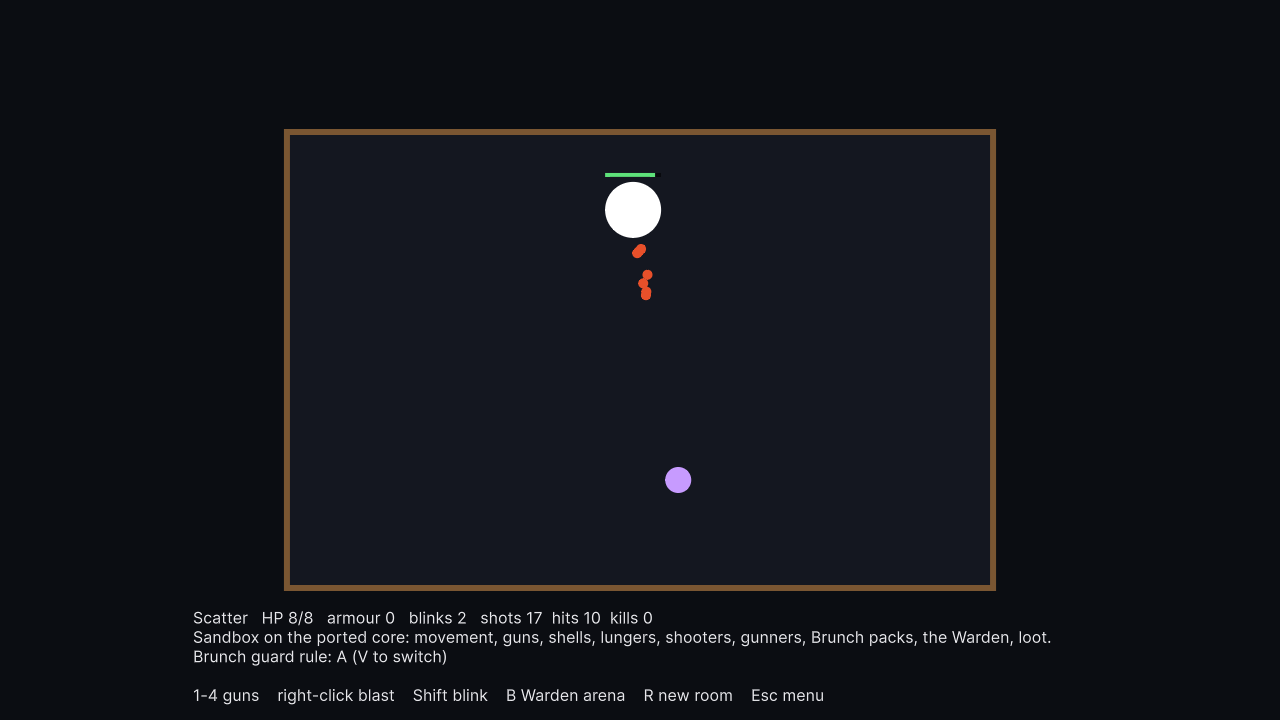
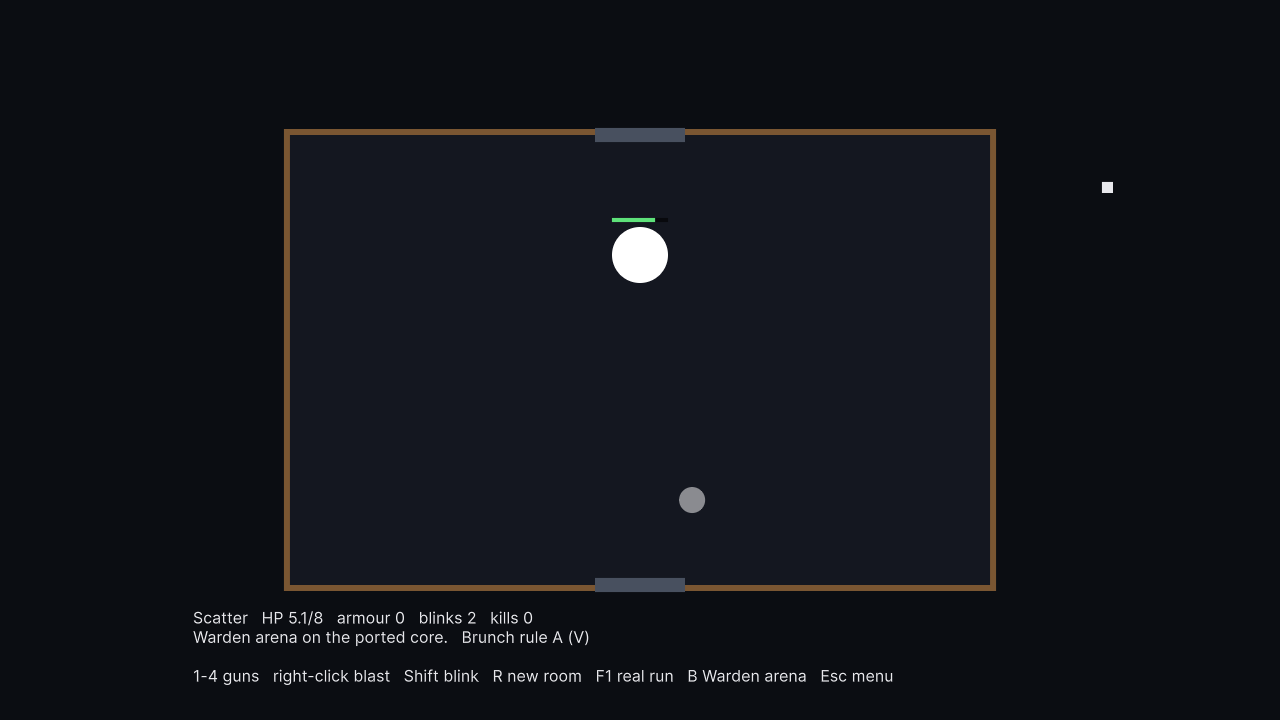
Room loop integration test; screenshots show a real run in Unity
- RoomLoopTests (3 seeds): through Update alone, walk out of the start
  room, arrive in a live room whose doors the fight has shut, clear it,
  and the unsealed doors open; the start room keeps its own (empty) list.
- Screenshot demo in a real run walks out through the first open door and
  fights; the game views wait in real time (frame counts depend on the
  frame rate). The captured frame: room 2 of floor 1, doors shut, a fight.

C# 380/380; gate green; build and runs clean.

diff --git a/docs/report-2026-10-06.html b/docs/report-2026-10-06.html
@@ -22,7 +22,7 @@ Baseline for A/B: git tag <code>pre-features-2026-10-06</code>, checked out at <
 
 <h2>At a glance</h2>
 <table>
-<tr><th>Gate (<code>.\verify.ps1</code>)</th><td><span class="tag ok">green</span> JS 246/246 at 3 viewports, C# 377/377, parity 0 diffs, 145 parity rows, 47/47 constants. About 3 min; it used to time out.</td></tr>
+<tr><th>Gate (<code>.\verify.ps1</code>)</th><td><span class="tag ok">green</span> JS 246/246 at 3 viewports, C# 380/380, parity 0 diffs, 145 parity rows, 47/47 constants. About 3 min; it used to time out.</td></tr>
 <tr><th>Bugs fixed</th><td>11 in the game, 4 in the port, 3 in the gate tooling. Each comes with a test that fails on the old code.</td></tr>
 <tr><th>Playtesting</th><td>A new bot plays 18 full runs in about 50s. It's deterministic and produces an A/B report. <code>node tools/playtest.js</code></td></tr>
 <tr><th>Unity</th><td><span class="tag ok">playable game</span> Start Game plays a real seeded run: rooms, doors, keys, waves of every enemy, the Warden, and the way down. It runs on the ported core, plus a menu, key binds, volume and sound. F1 opens a sandbox and B a Warden arena.</td></tr>
@@ -105,7 +105,8 @@ retreat across a big room from a shooter with a pack. Reports: <code>playtest/re
 <li><b>To play it:</b> build with the command in <code>docs/STATUS.md</code>, or open <code>unity/</code> in the Unity Hub and press Play in <code>Assets/Depths/Scenes/MainMenu</code>.</li>
 </ul>
 <div class="grid2"><img src="report-2026-10-06/unity-audio.png" alt="Audio options"><img src="report-2026-10-06/unity-game.png" alt="Sandbox"></div>
-<div class="grid2"><img src="report-2026-10-06/unity-boss.png" alt="Warden arena"></div>
+<div class="grid2"><img src="report-2026-10-06/unity-boss.png" alt="Warden arena"><img src="report-2026-10-06/unity-sandbox.png" alt="Sandbox"></div>
+<p class="meta">The large image above is a real run: the demo player walked out of the start room into a live room. The minimap shows both rooms, and the fight has shut the doors (grey bars).</p>
 
 <h3>4.3 Sound engine <span class="tag ok">started</span></h3>
 <p><code>SoundEngine.Play("hit", pan)</code> plays any of the game's 12 sounds. They're rebuilt by a small synthesizer from the exact JS definitions, then pooled and routed through the SFX channel. The tests compare each one with the JS game's own render: pitch matches within 20% for 11 of the 12 (the exception is explained in the test). <b>Next step:</b> add a compressor on Master. The JS game has one, and the sounds may feel spikier without it.</p>

diff --git a/csharp/Depths.Tests/RoomLoopTests.cs b/csharp/Depths.Tests/RoomLoopTests.cs
@@ -1,0 +1,49 @@
+using System.Linq;
+using NUnit.Framework;
+
+namespace Depths.Tests
+{
+    /// <summary>
+    /// The room loop as a player meets it, through Update alone: walk out of the start room, arrive in
+    /// a live room whose doors the fight has shut, clear it, and find the doors open again. Not a
+    /// parity table (RoomEntryParityTests pins the numbers); this pins that the pieces are connected.
+    /// </summary>
+    [TestFixture]
+    public sealed class RoomLoopTests
+    {
+        static Input Toward(RunState run, double x, double y) =>
+            new Input(System.Math.Sign(System.Math.Round(x - run.player.x)), System.Math.Sign(System.Math.Round(y - run.player.y)));
+
+        [TestCase(1u)]
+        [TestCase(4242u)]
+        [TestCase(31337u)]
+        public void WalkIntoALiveRoomAndClearIt(uint seed)
+        {
+            var run = new RunState(new Rng(seed));
+            run.Start(seed);
+            var start = run.CurrentRoom!;
+            var d = start.Doors.First(k => run.dungeon.Neighbour(start, k)!.Type == RoomKind.Normal);
+            var (dx, dy) = Rooms.DoorPoint(d);
+            // aim 40px past the door, as a player walks through it
+            double tx = dx + System.Math.Sign(dx - Balance.MidX) * 40, ty = dy + System.Math.Sign(dy - Balance.MidY) * 40;
+            for (int t = 0; t < 2000 && run.CurrentRoom == start; t++) TickOrder.Update(run, Toward(run, tx, ty));
+            var room = run.CurrentRoom!;
+            Assert.That(room, Is.Not.SameAs(start), "the player never left the start room");
+            Assert.That(room.Type, Is.EqualTo(RoomKind.Normal));
+            Assert.That(run.enemies, Is.Not.Empty, "a normal room arrived empty");
+            Assert.That(room.Doors.All(k => !Rooms.DoorPassable(run, room, k)), "a door is open while the fight is on");
+
+            // clear it (by hand: this test is about the doors, not the fight), then the doors open
+            foreach (var e in run.enemies.ToList()) e.hp = 0;
+            run.enemies.Clear();
+            run.readyT = 0;
+            TickOrder.Update(run, Input.None);
+            Assert.That(room.Cleared, "the room did not register as cleared");
+            Assert.That(room.Doors.Where(k => !Rooms.DoorSealed(run, room, k)).All(k => Rooms.DoorPassable(run, room, k)),
+                "a cleared room kept an unsealed door shut");
+
+            // and the start room still holds what it held when the player left (nothing), not this room's
+            Assert.That(start.Enemies, Is.Empty);
+        }
+    }
+}

diff --git a/unity/Assets/Depths/Runtime/GameView.cs b/unity/Assets/Depths/Runtime/GameView.cs
@@ -211,8 +211,21 @@ namespace Depths.Unity
             var p = _run.player;
             var t = _run.enemies.OrderBy(e => (e.x - p.x) * (e.x - p.x) + (e.y - p.y) * (e.y - p.y)).FirstOrDefault();
             if (t != null) aim = new Vector2((float)t.x, (float)t.y);
-            mv = RealRun ? new Vector2(0, 1) : new Vector2((_demoT / 40) % 2 == 0 ? 1 : -1, 0);
-            fire = true;
+            mv = new Vector2((_demoT / 40) % 2 == 0 ? 1 : -1, 0);
+            var room = _run.CurrentRoom;
+            if (RealRun && t == null && room != null)
+            {
+                // a quiet room: walk out through the first open door (screen y is up for the move action)
+                foreach (var d in room.Doors)
+                {
+                    if (!Rooms.DoorPassable(_run, room, d)) continue;
+                    var (dx, dy) = Rooms.DoorPoint(d);
+                    double tx = dx + Math.Sign(dx - Balance.MidX) * 40, ty = dy + Math.Sign(dy - Balance.MidY) * 40;
+                    mv = new Vector2(Math.Sign(Math.Round(tx - p.x)), -Math.Sign(Math.Round(ty - p.y)));
+                    break;
+                }
+            }
+            fire = t != null;
             if (_demoT == 30) p.weaponIdx = 1;
         }
     }

diff --git a/unity/Assets/Depths/Runtime/ScreenshotMode.cs b/unity/Assets/Depths/Runtime/ScreenshotMode.cs
@@ -41,7 +41,11 @@ namespace Depths.Unity
                 var m = FindAnyObjectByType<MainMenuController>();
                 if (m != null) m.ShowView(_view);
             }
-            for (int i = 0; i < (_view == "boss" ? 420 : _view == "game" || _view == "sandbox" ? 150 : 20); i++) yield return null;   // the game view needs time to play
+            // the game views play for a while in real time (frame counts depend on the frame rate)
+            if (_view == "game") yield return new WaitForSecondsRealtime(5f);
+            else if (_view == "boss") yield return new WaitForSecondsRealtime(4f);
+            else if (_view == "sandbox") yield return new WaitForSecondsRealtime(1.5f);
+            else for (int i = 0; i < 20; i++) yield return null;
             ScreenCapture.CaptureScreenshot(_path);
             for (int i = 0; i < 10; i++) yield return null;
             Application.Quit();

diff --git a/CONVENTIONS.md b/CONVENTIONS.md
@@ -89,7 +89,7 @@ guard: can it actually be null? 7. Tests that compare a value with itself — ve
 ## Current state
 
 - JS suite (`depths.html?test`, frozen reference): **246 checks**.
-- C# `Depths.Tests` has **377 checks**, parity-verified against the JavaScript.
+- C# `Depths.Tests` has **380 checks**, parity-verified against the JavaScript.
 - `verify.ps1` asserts both numbers above; keep them current.
 
 ## Archived design decisions (`docs/history/conventions-archive.md`)
